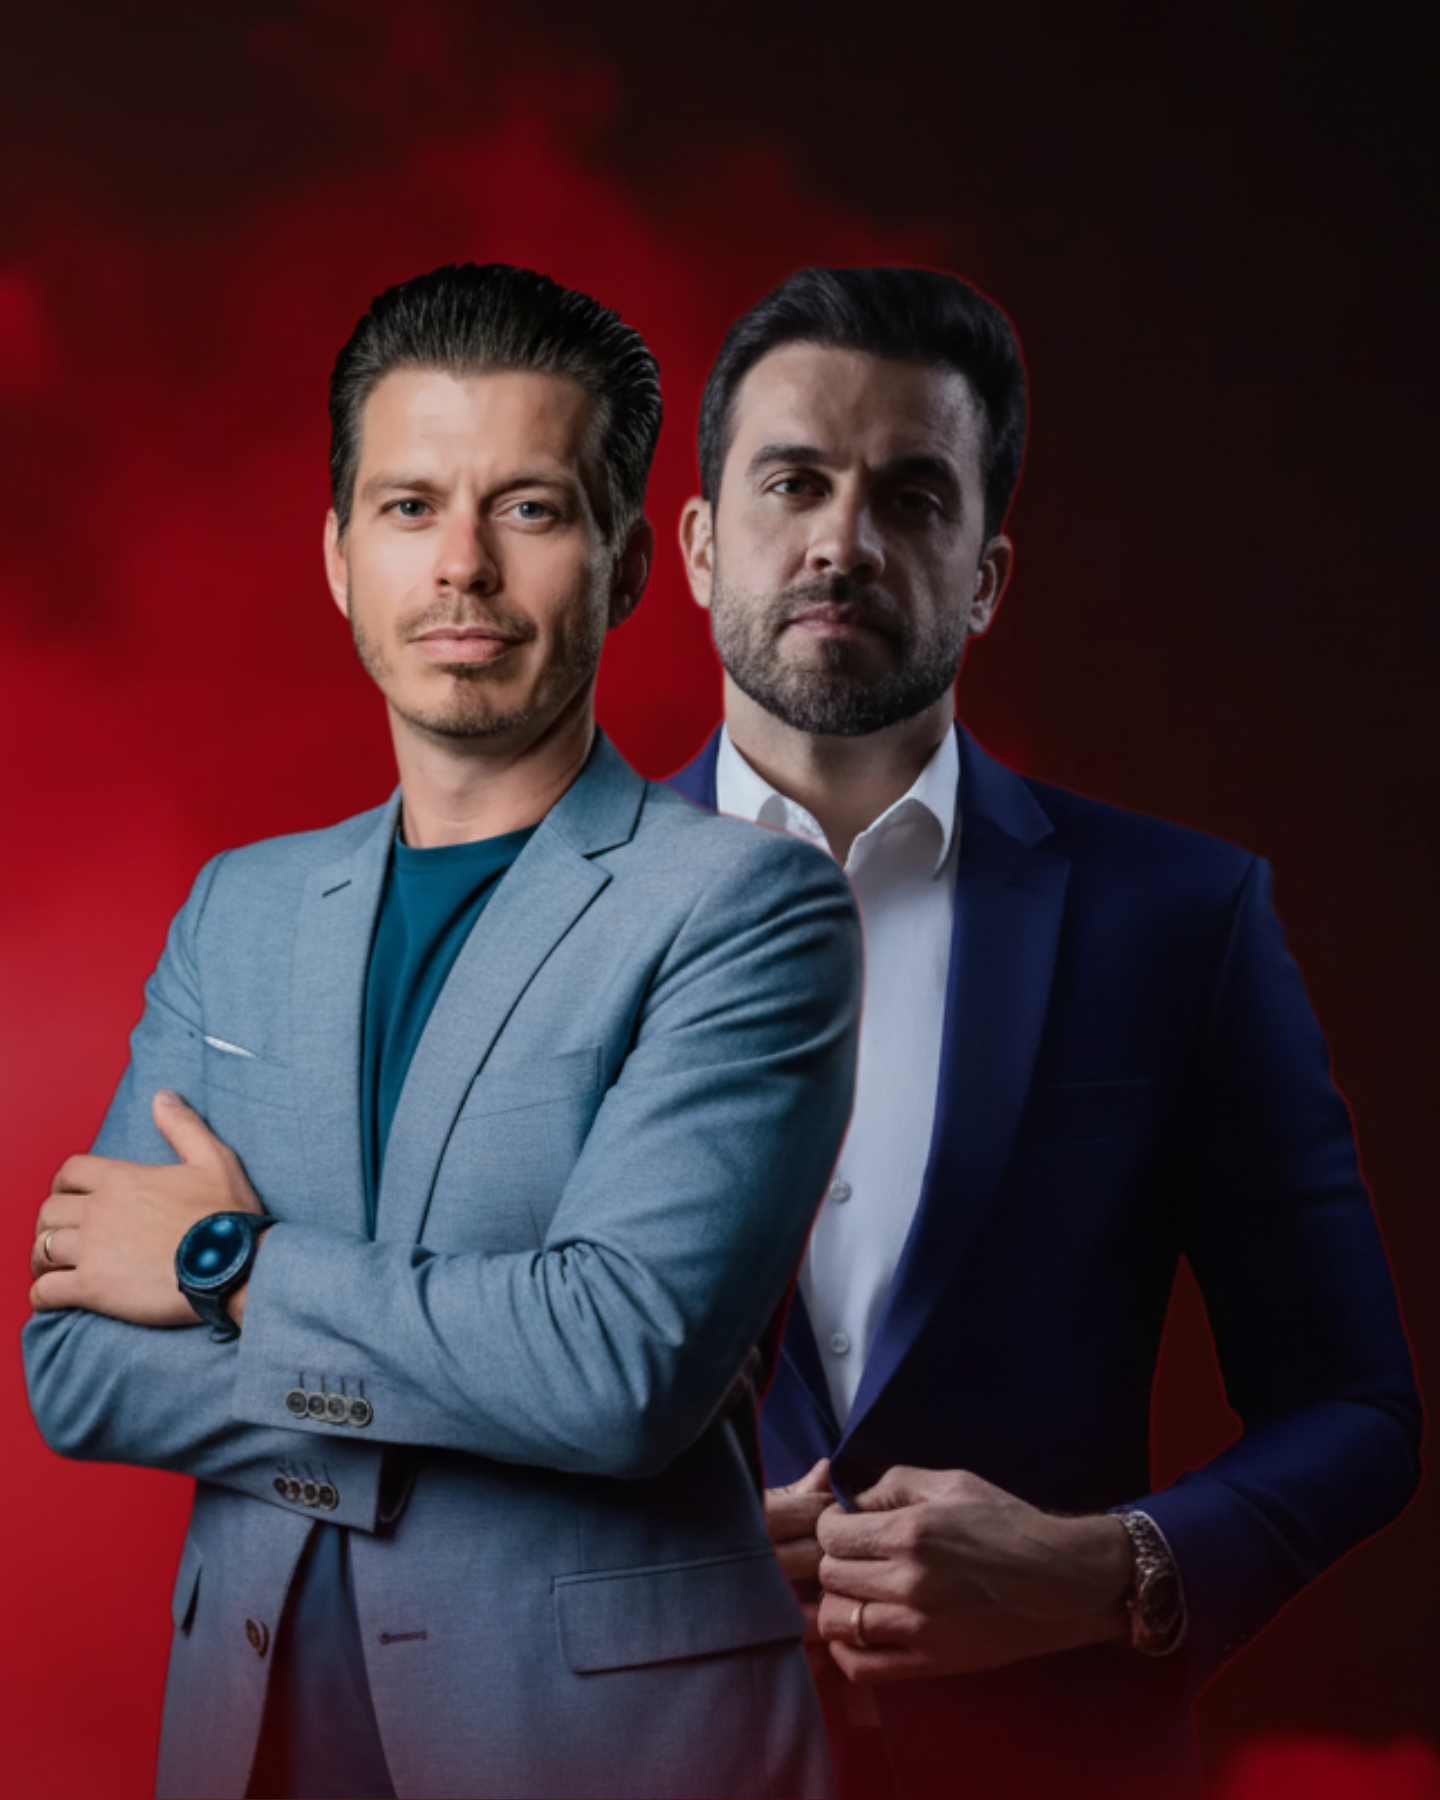
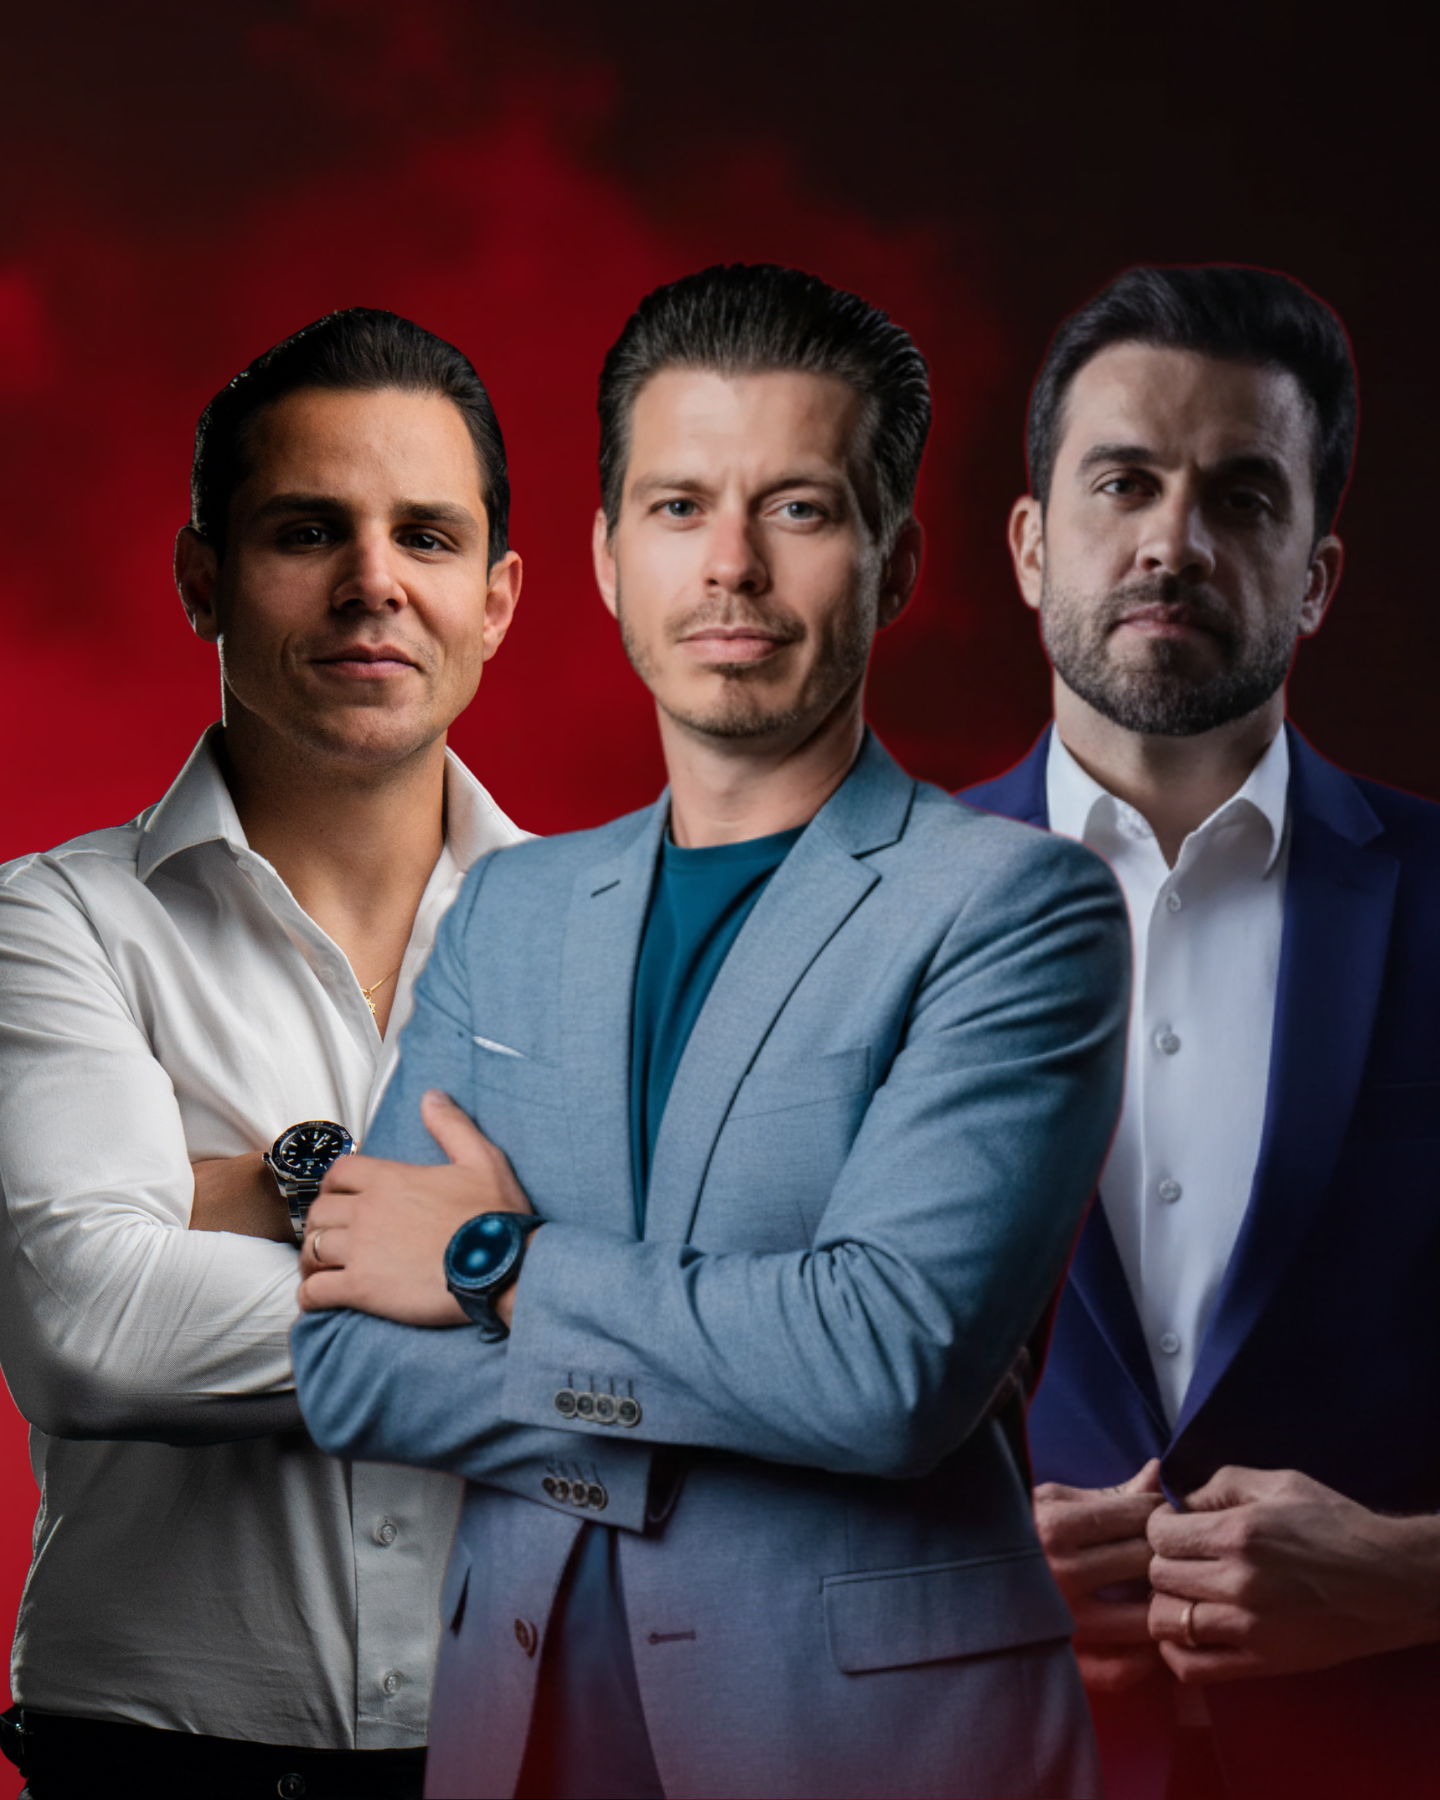
add nesio, delet tiago

diff --git a/src/components/MentorSection.tsx b/src/components/MentorSection.tsx
@@ -39,16 +39,7 @@ export const MentorSection = () => {
         "Nezio é cristão, casado com Jessyca Monteiro e pai de Ana Liz, palestrante, iron man e escritor. Tem como propósito destravar negócios e empresários que têm valores e princípios alinhados com o seu.",
       ],
     },
-    {
-      name: "Thiago Rocha",
-      image: mentorThiago,
-      bio: [
-        "Tiago Rocha é mentor especialista na criação e desenvolvimento de métodos e metodologias de ensino para mentores e palestrantes.",
-        "Atua há mais de 10 anos no mercado de Infoeducação formando profissionais que desejam transformar seus conhecimentos em mentorias e palestras.",
-        "Já formou mais de 10 mil alunos e hoje é o líder da Plataforma Global na Europa. Lidera múltiplos negócios e atende mentores dos mais variados nichos.",
-        "É um profissional que vive o que ensina e fatura todos os meses múltiplos 7 dígitos com mentorias e infoprodutos.",
-      ],
-    },
+    
   ];
 
   return (
